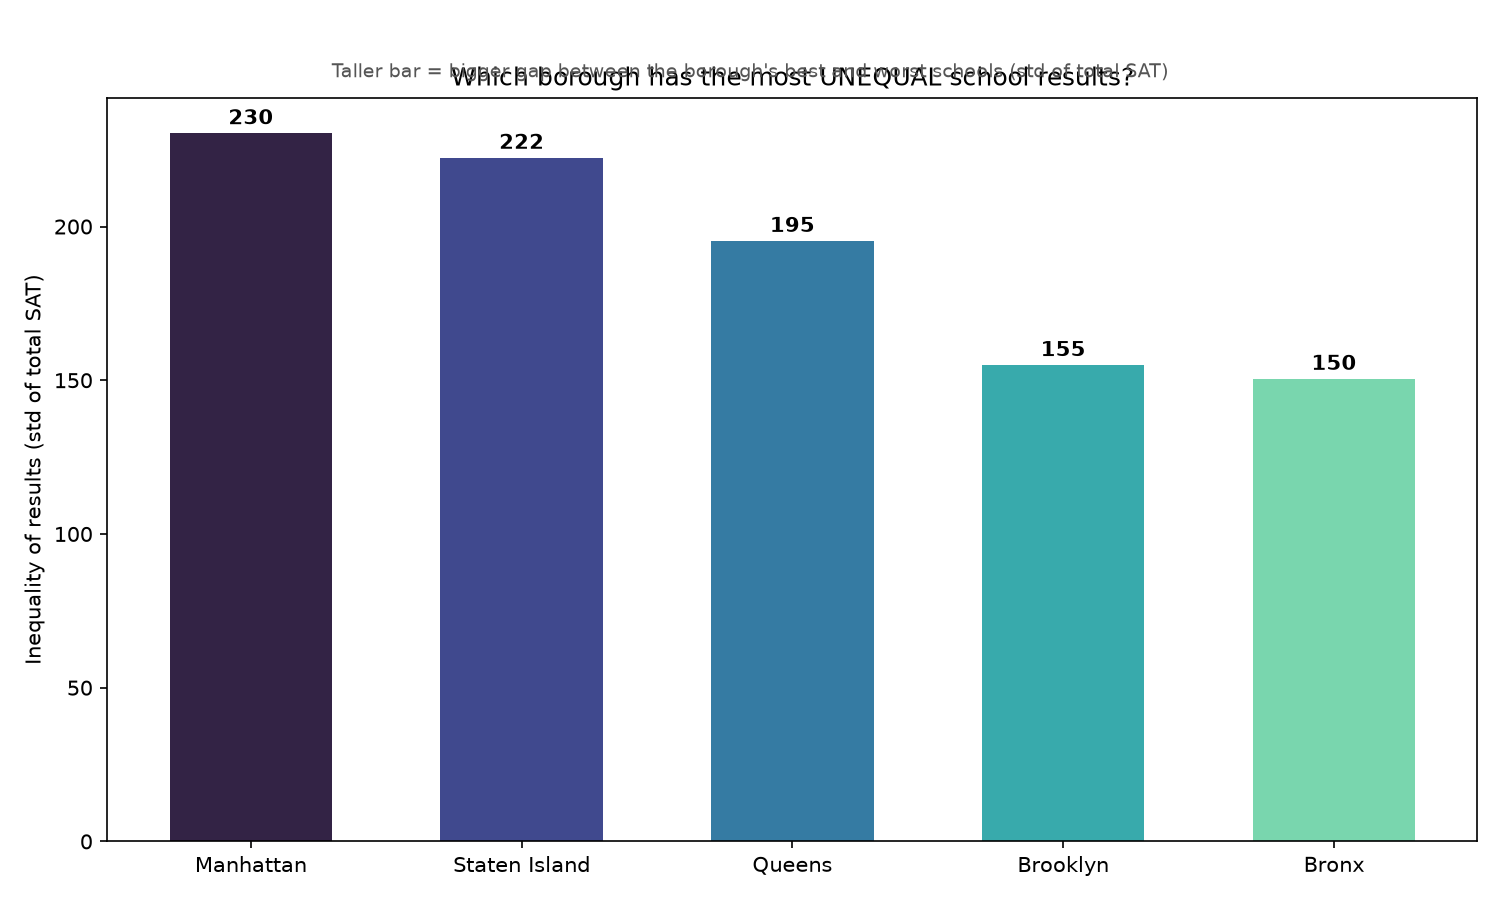
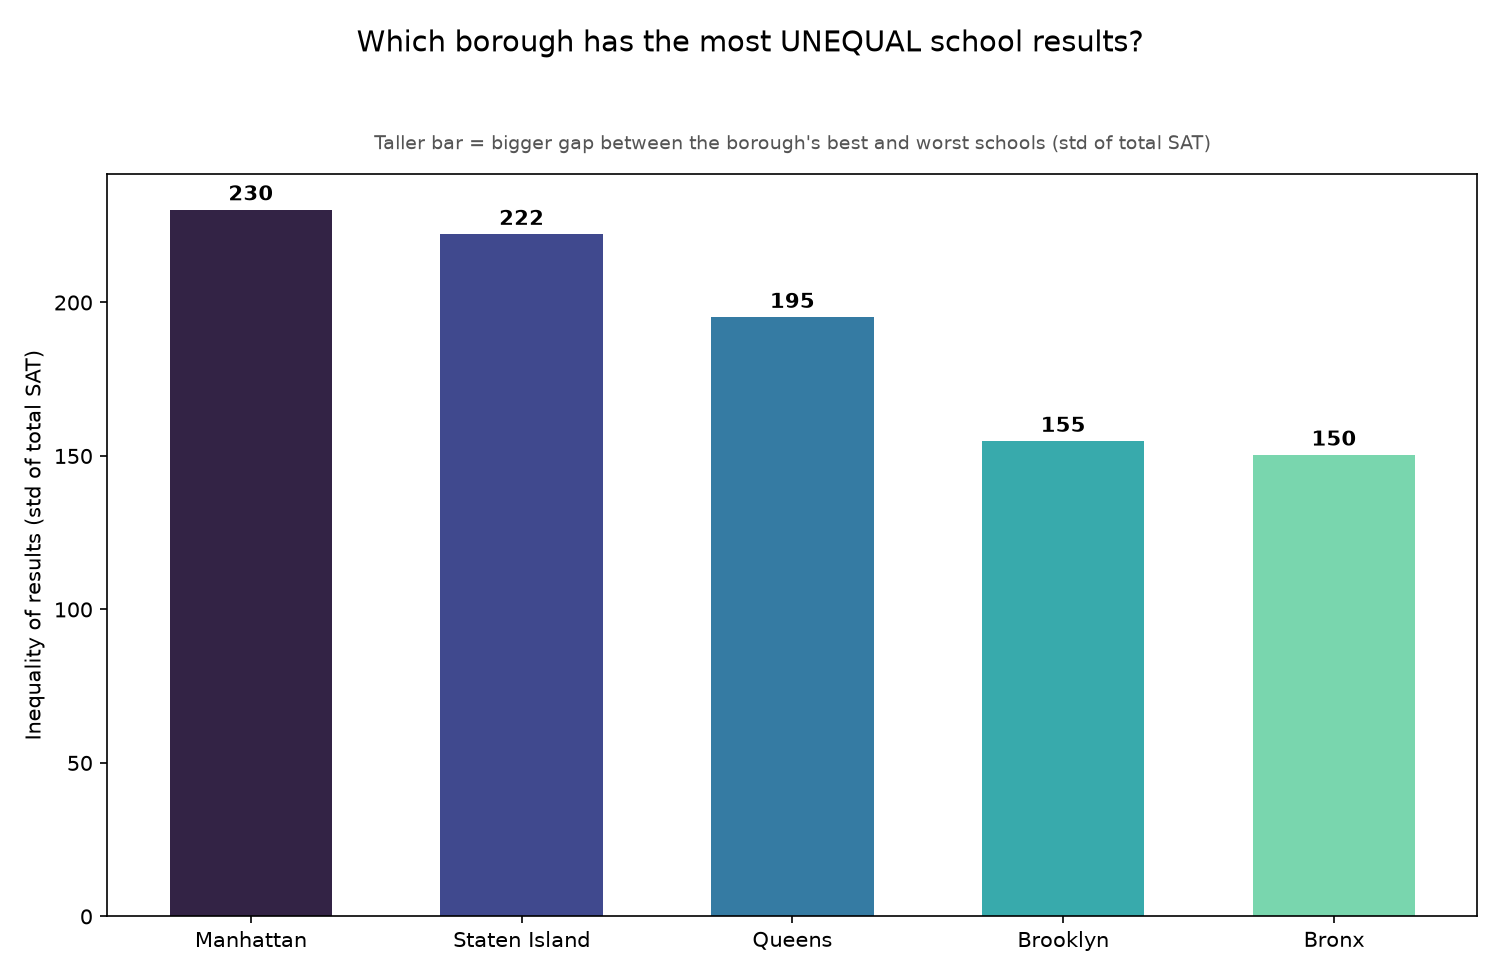
nyc: fix overlapping titles on the borough inequality chart (suptitle + subtitle properly spaced)

diff --git a/nyc-schools-scores/nyc_schools_analysis.py b/nyc-schools-scores/nyc_schools_analysis.py
@@ -67,16 +67,17 @@ largest_std_dev = pd.DataFrame({
 })
 print(f"\nBorough with the largest spread:\n{largest_std_dev.to_string(index=False)}")
 
-plt.figure(figsize=(10, 6))
+plt.figure(figsize=(10, 6.5))
 std_colors = sns.color_palette("mako", n_colors=len(borough_stats))
 bars = plt.bar(borough_stats.index.astype(str), borough_stats["std"], color=std_colors, width=0.6)
 for bar, value in zip(bars, borough_stats["std"]):
     plt.text(bar.get_x() + bar.get_width() / 2, value + 3, f"{value:.0f}", ha="center", fontweight="bold")
-plt.title("Which borough has the most UNEQUAL school results?")
-plt.suptitle("Taller bar = bigger gap between the borough's best and worst schools (std of total SAT)", y=0.93, fontsize=9, color="#555555")
+plt.suptitle("Which borough has the most UNEQUAL school results?", fontsize=14, y=0.97)
+plt.title("Taller bar = bigger gap between the borough's best and worst schools (std of total SAT)",
+          fontsize=9, color="#555555", pad=12)
 plt.xlabel("")
 plt.ylabel("Inequality of results (std of total SAT)")
-plt.tight_layout()
+plt.tight_layout(rect=[0, 0, 1, 0.94])
 plt.savefig("images/borough_std.png", dpi=150)
 plt.close()
 